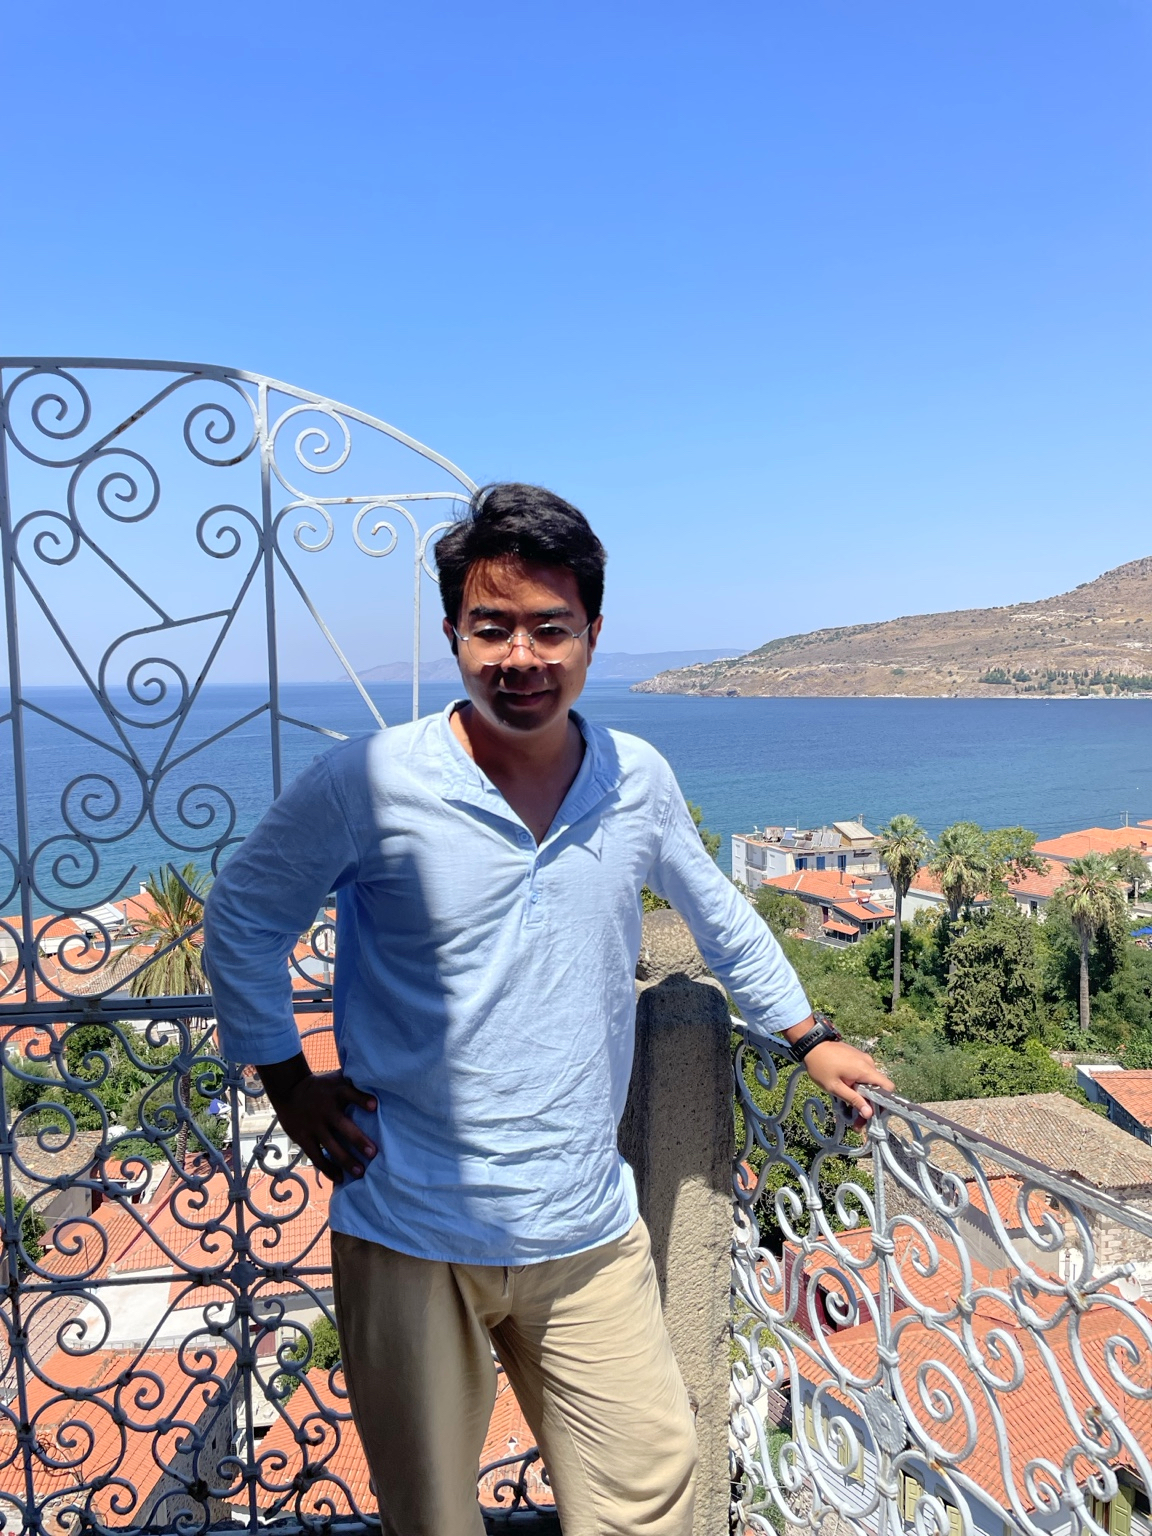
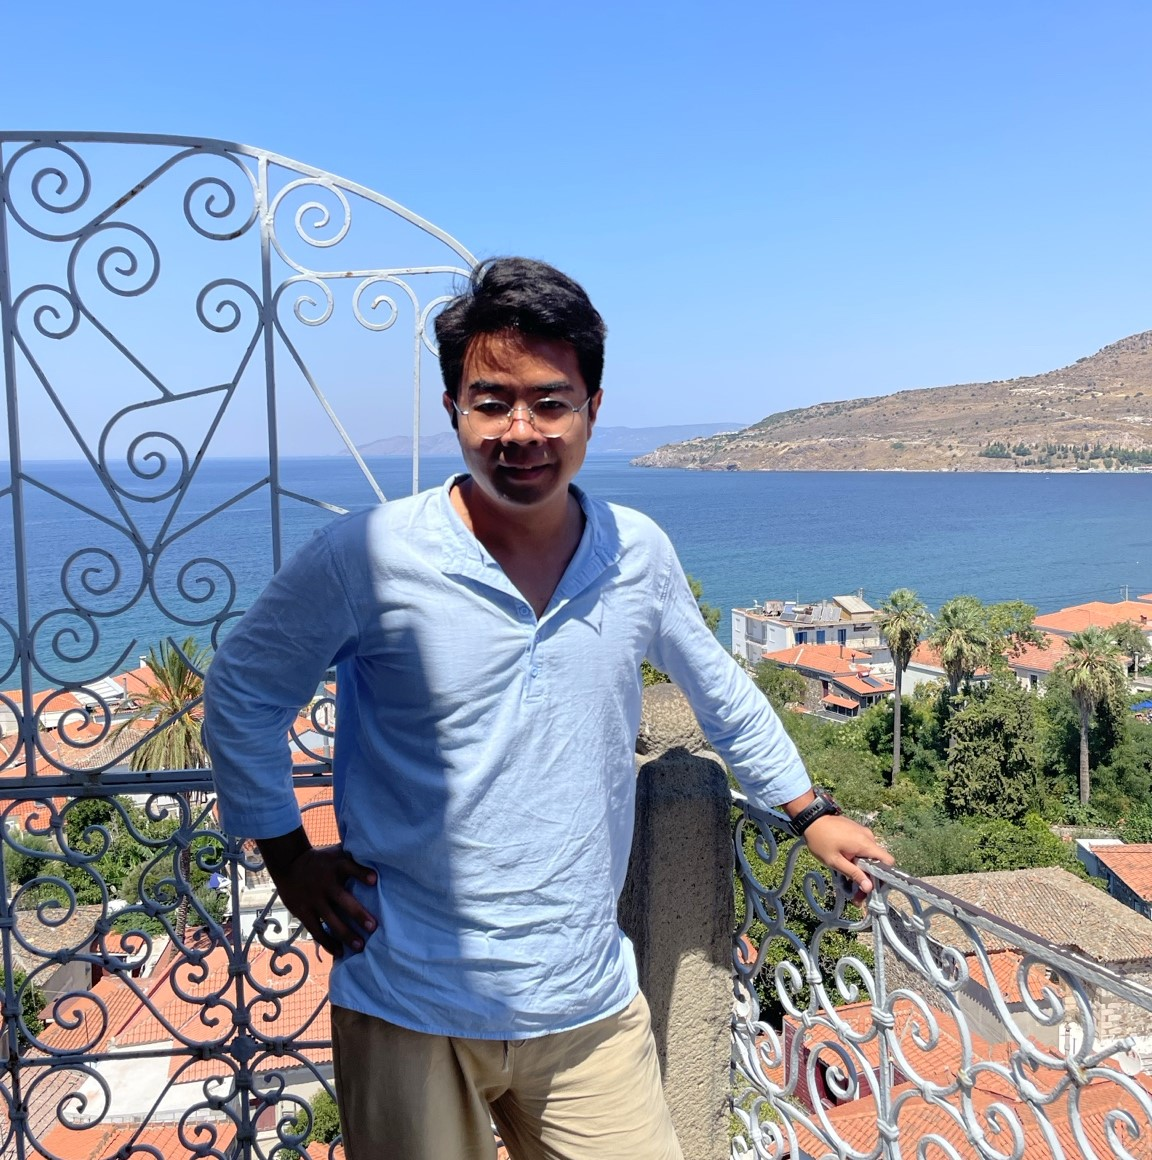
Update Xuan Qi portrait

diff --git a/index.html b/index.html
@@ -49,7 +49,7 @@
     </div>
     <div class="portrait-card">
       <div class="portrait">
-        <img src="assets/profile.jpg" alt="Xuan Qi" width="1152" height="1536" fetchpriority="high" />
+        <img src="assets/profile.jpg?v=9c6136be24d4" alt="Xuan Qi" width="1152" height="1160" fetchpriority="high" />
       </div>
     </div>
   </section>
